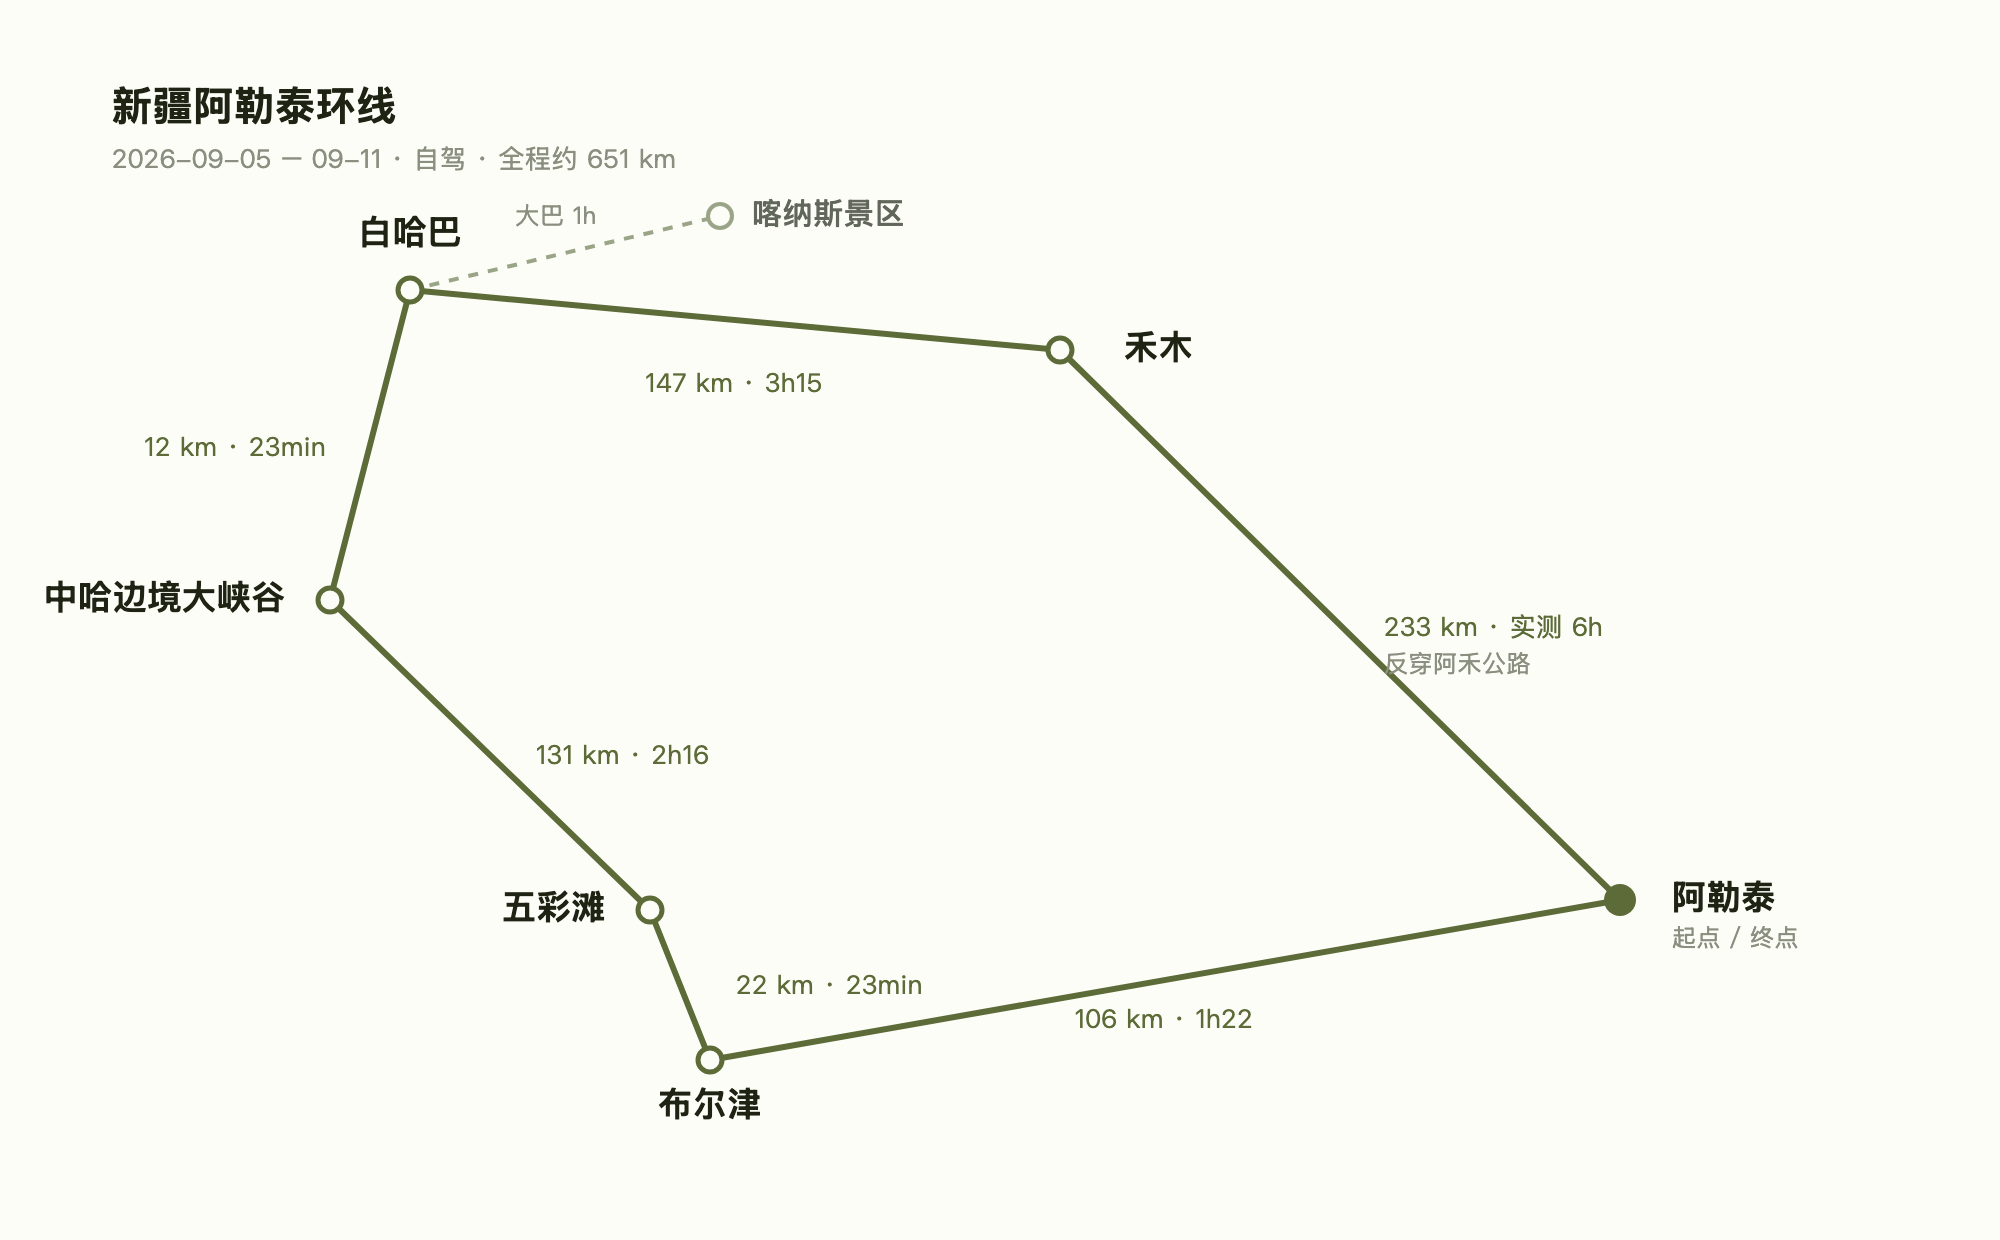
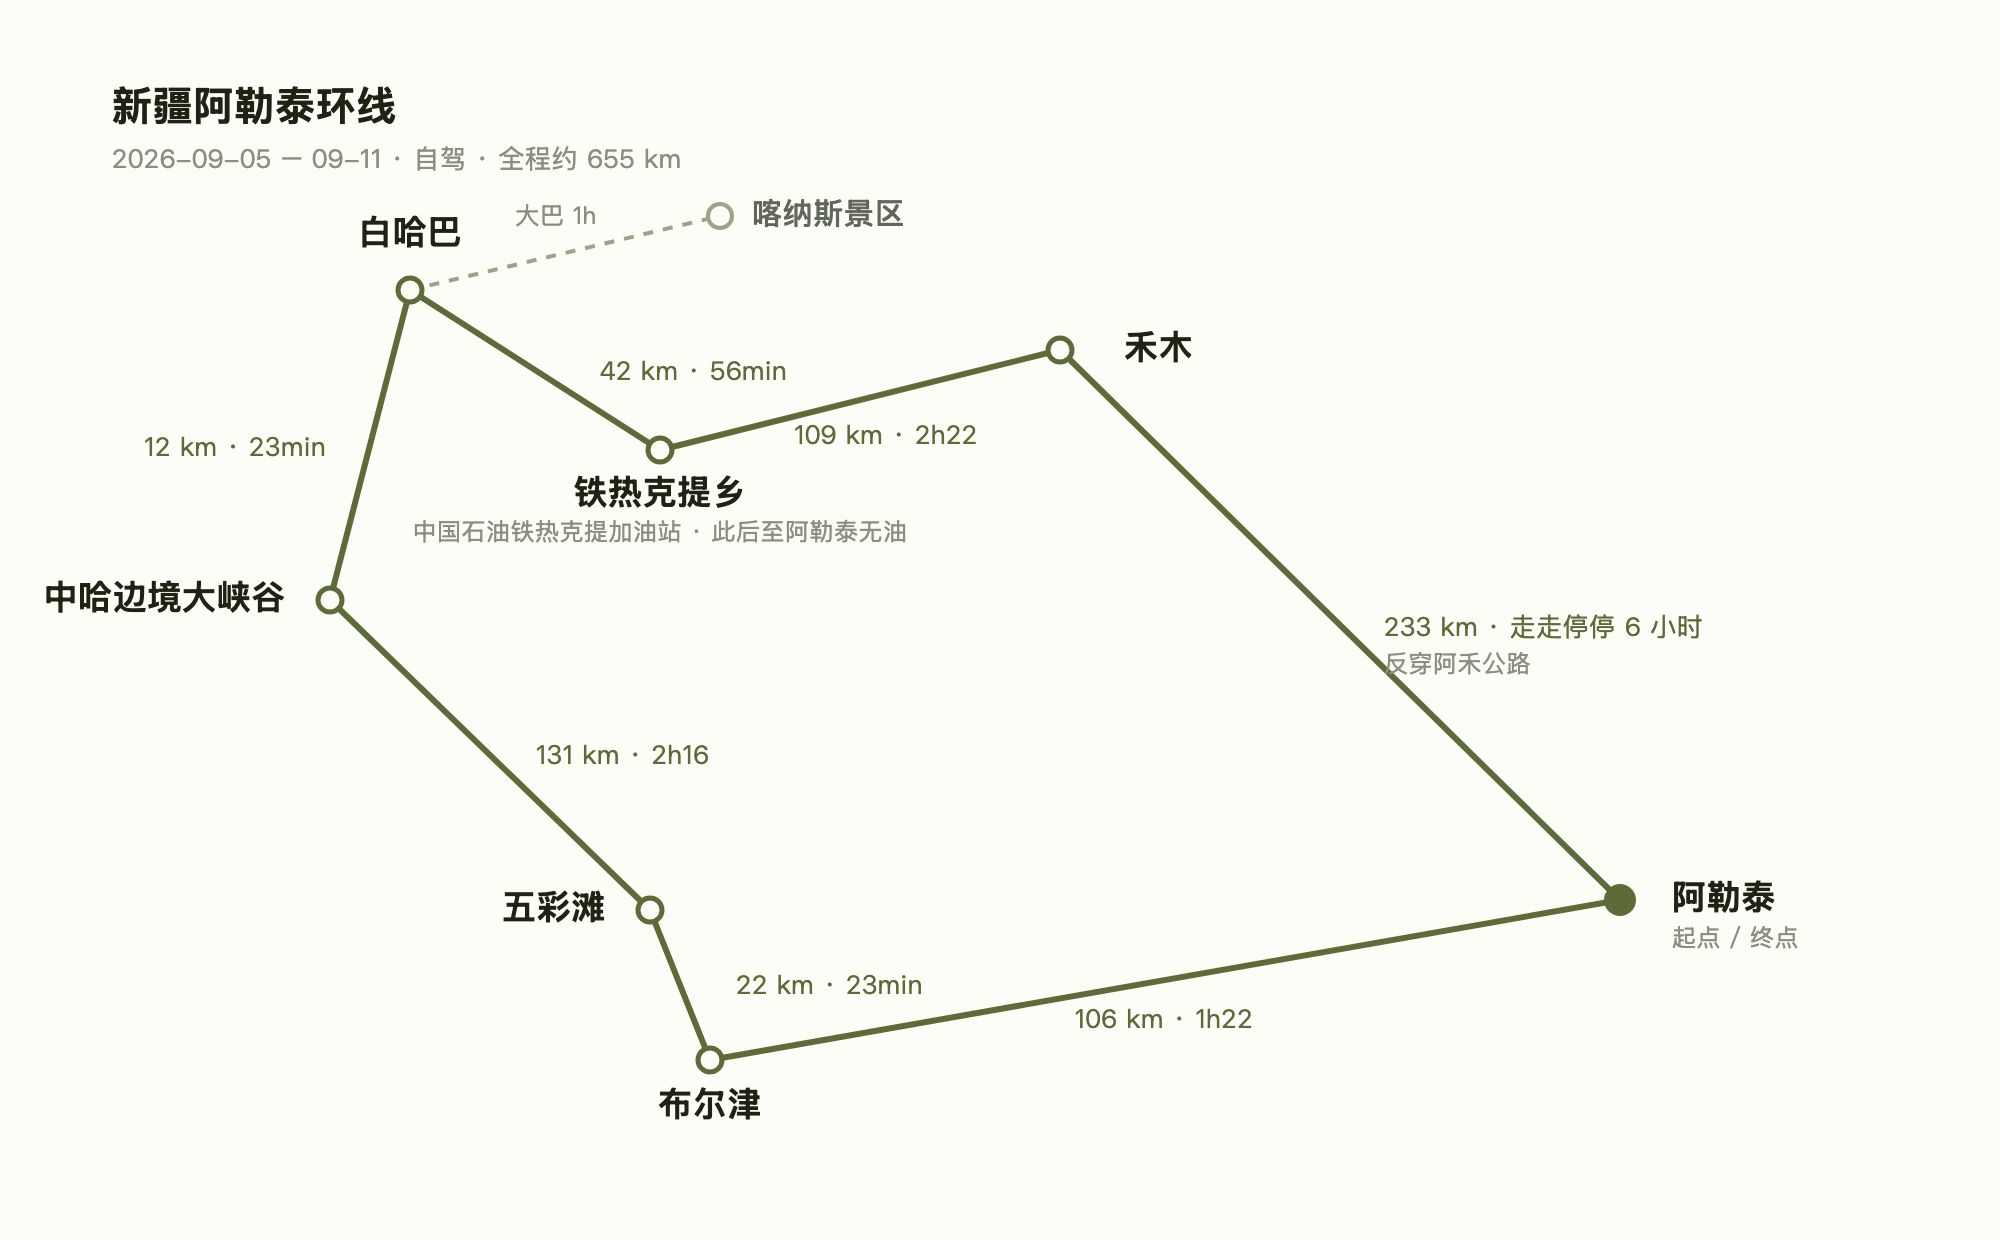
Split 9.8 at 铁热克提乡 and soften the 9.10 estimate
铁热克提乡 was only a bullet saying to refuel, but it's the last fuel
before 阿勒泰 and now sits on the route as a stop of its own, labelled
with the station on the diagram. "实测 6h" reads as measured fact when
the point is that stopping for photos is what costs the time, so it
becomes 走走停停 6 小时.

Note the two new legs total 151 km against the 147 km the single leg
claimed — both come from 高德, queried differently. Kept the new pair,
so the day total and the 全程约 655 km on the diagram follow from them.

diff --git a/scripts/altay-route.html b/scripts/altay-route.html
@@ -27,11 +27,11 @@
   <rect width="1000" height="620" fill="#FDFDF7"/>
 
   <text class="title" x="56" y="60">新疆阿勒泰环线</text>
-  <text class="sub"   x="56" y="84">2026-09-05 – 09-11 · 自驾 · 全程约 651 km</text>
+  <text class="sub"   x="56" y="84">2026-09-05 – 09-11 · 自驾 · 全程约 655 km</text>
 
   <!-- 环线 -->
   <polyline
-    points="810,450 355,530 325,455 165,300 205,145 530,175 810,450"
+    points="810,450 355,530 325,455 165,300 205,145 330,225 530,175 810,450"
     fill="none" stroke="#5C6B38" stroke-width="3"
     stroke-linejoin="round" stroke-linecap="round"/>
 
@@ -47,6 +47,7 @@
   <circle cx="325" cy="455" r="6" fill="#FDFDF7" stroke="#5C6B38" stroke-width="2.5"/>
   <circle cx="165" cy="300" r="6" fill="#FDFDF7" stroke="#5C6B38" stroke-width="2.5"/>
   <circle cx="205" cy="145" r="6" fill="#FDFDF7" stroke="#5C6B38" stroke-width="2.5"/>
+  <circle cx="330" cy="225" r="6" fill="#FDFDF7" stroke="#5C6B38" stroke-width="2.5"/>
   <circle cx="530" cy="175" r="6" fill="#FDFDF7" stroke="#5C6B38" stroke-width="2.5"/>
   <!-- 起点 / 终点 -->
   <circle cx="810" cy="450" r="8" fill="#5C6B38"/>
@@ -57,6 +58,8 @@
   <text class="stop" x="303" y="455" text-anchor="end" dominant-baseline="middle">五彩滩</text>
   <text class="stop" x="143" y="300" text-anchor="end" dominant-baseline="middle">中哈边境大峡谷</text>
   <text class="stop" x="205" y="122" text-anchor="middle">白哈巴</text>
+  <text class="stop" x="330" y="252" text-anchor="middle">铁热克提乡</text>
+  <text class="hint" x="330" y="270" text-anchor="middle">中国石油铁热克提加油站 · 此后至阿勒泰无油</text>
   <text class="stop" x="562" y="175" text-anchor="start" dominant-baseline="middle">禾木</text>
 
   <!-- 各段里程 -->
@@ -64,8 +67,9 @@
   <text class="leg" x="368" y="497" text-anchor="start">22 km · 23min</text>
   <text class="leg" x="268" y="382" text-anchor="start">131 km · 2h16</text>
   <text class="leg" x="163" y="228" text-anchor="end">12 km · 23min</text>
-  <text class="leg" x="367" y="196" text-anchor="middle">147 km · 3h15</text>
-  <text class="leg" x="692" y="318" text-anchor="start">233 km · 实测 6h</text>
+  <text class="leg" x="300" y="190" text-anchor="start">42 km · 56min</text>
+  <text class="leg" x="443" y="222" text-anchor="middle">109 km · 2h22</text>
+  <text class="leg" x="692" y="318" text-anchor="start">233 km · 走走停停 6 小时</text>
   <text class="hint" x="692" y="336" text-anchor="start">反穿阿禾公路</text>
 </svg>
 </body></html>

diff --git a/lib/tours.js b/lib/tours.js
@@ -113,9 +113,15 @@ export const tours = [
         legs: [
           {
             from: "白哈巴",
+            to: "铁热克提乡",
+            distance: "42 km",
+            duration: "56min",
+          },
+          {
+            from: "铁热克提乡",
             to: "禾木",
-            distance: "147 km",
-            duration: "3h15",
+            distance: "109 km",
+            duration: "2h22",
           },
         ],
         options: {
@@ -127,7 +133,7 @@ export const tours = [
           ],
         },
         items: [
-          "铁热克提乡加油、补给物资",
+          "铁热克提乡加油、补给物资 —— 中国石油铁热克提加油站",
           "走铁贾公路，地貌从低山怪石林一路变到高山草甸",
           "下午抵达禾木村，休整",
         ],
@@ -153,7 +159,7 @@ export const tours = [
             from: "禾木",
             to: "阿勒泰市区",
             distance: "233 km",
-            duration: "地图 4h35 / 实测 6h",
+            duration: "地图 4h35 / 走走停停 6 小时",
           },
         ],
         items: ["反穿阿禾公路返程，全程是观景公路"],
